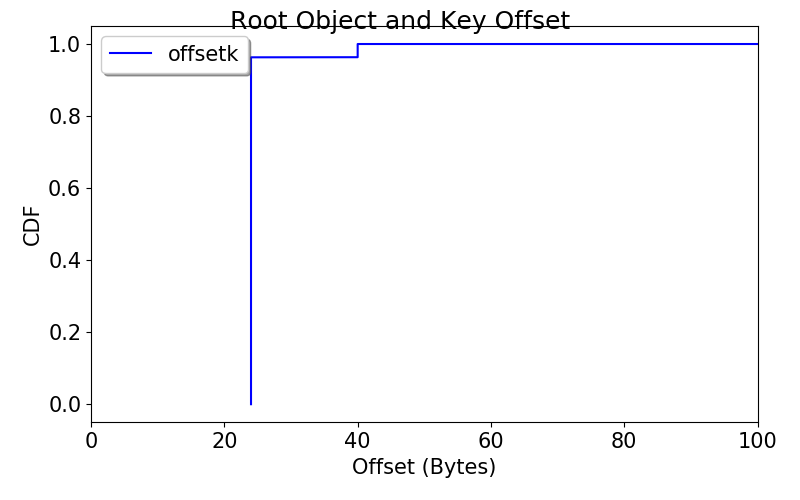
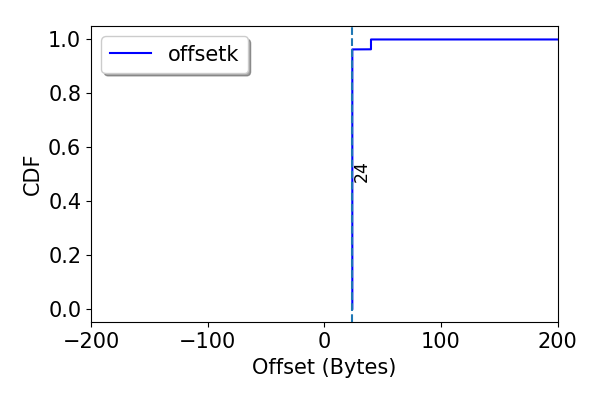
experimented with code to observe affect on inter-object distances

Changed region(s): [[0.03, 0.0, 0.99, 0.96]]

diff --git a/plot.py b/plot.py
@@ -197,14 +197,16 @@ def parse_args():
         help='Custom y-axis upper limit')
 
     parser.add_argument('-hl', '--hline', 
-        action='store', 
+        action='append', 
         type=float,
-        help='Add a horizantal line at specified y-value')
+        dest='hlines',
+        help='Add a horizantal line at specified y-value (multiple lines are allowed)')
 
     parser.add_argument('-vl', '--vline', 
-        action='store', 
+        action='append', 
         type=float,
-        help='Add a vertical line at specified x-value')
+        dest='vlines',
+        help='Add a vertical line at specified x-value (multiple lines are allowed)')
 
     parser.add_argument('-pg', '--pgroup', 
         action='append', 
@@ -375,7 +377,7 @@ def main():
     matplotlib.rc('figure', autolayout=True)
     matplotlib.rcParams['pdf.fonttype'] = 42        # required for latex embedded figures
 
-    fig, axmain = plt.subplots(1, 1, figsize=(8,5))
+    fig, axmain = plt.subplots(1, 1, figsize=(6,4))
     fig.suptitle(args.ptitle if args.ptitle else '')
     #plt.ylim(0, 1000)
 
@@ -431,23 +433,18 @@ def main():
             xc = [x * args.xmul for x in xc]
             yc = [y * ymul for y in yc]
             if args.xstr:   xc = [str(x) for x in xc]
-
-            if args.nomarker:
-                lns += ax.plot(xc, yc, label=label, color=colors[cidx])
-            else:
-                lns += ax.plot(xc, yc, label=label, color=colors[cidx], 
-                    marker=markers[midx],markerfacecolor=colors[cidx])
+            lns += ax.plot(xc, yc, label=label, color=colors[cidx], 
+                marker=None if args.nomarker else markers[midx],
+                markerfacecolor=None if args.nomarker else colors[cidx])
 
         elif args.ptype == PlotType.scatter:
             xc = xcol
             yc = df[ycol]
             xc = [x * args.xmul for x in xc]
             yc = [y * ymul for y in yc]
-
-            if args.nomarker:
-                ax.scatter(xc, yc, label=label, color=colors[cidx])
-            else:
-                ax.scatter(xc, yc, label=label, color=colors[cidx], marker=markers[midx])
+            ax.scatter(xc, yc, label=label, color=colors[cidx], 
+                marker=None if args.nomarker else markers[midx],
+                markerfacecolor=None if args.nomarker else colors[cidx])
 
         elif args.ptype == PlotType.bar:
             xc = xcol
@@ -457,8 +454,7 @@ def main():
             if args.xstr:   xc = [str(x) for x in xc]
             ax.bar(xc, yc, label=label, color=colors[cidx])
             if args.xstr:   ax.set_xticks(xc)
-            if args.xstr:   ax.set_xticklabels(xc, rotation='45')
-            
+            if args.xstr:   ax.set_xticklabels(xc, rotation='45')         
 
         elif args.ptype == PlotType.barstacked:
             xc = xcol
@@ -495,19 +491,17 @@ def main():
                         break
                 if tail:
                     args.xmax = tail if args.xmax is None else max(tail, args.xmax)
-
-            # xc = xc[head:tail]
-            # yc = yc[head:tail]
             
             xc = [x * args.xmul for x in xc]
             yc = [y * ymul for y in yc]
-            
-            if args.nomarker:
-                lns += ax.plot(xc, yc, label=label, color=colors[cidx])
-            else:
-                lns += ax.plot(xc, yc, label=label, color=colors[cidx],
-                    marker=markers[midx],markerfacecolor=colors[cidx])
+            lns += ax.plot(xc, yc, label=label, color=colors[cidx],
+                marker=None if args.nomarker else markers[midx],
+                markerfacecolor=None if args.nomarker else colors[cidx])
 
+            # Add a line at mode (TODO: make this a command line option)
+            mode = scstats.mode(xc).mode[0]
+            if not args.vlines:     args.vlines = []
+            args.vlines.append(mode)        
             ylabel = "CDF"
 
         if args.colormarkerincr:
@@ -553,13 +547,17 @@ def main():
         labels = [l.get_label() for l in lns]
         set_axes_legend_loc(axmain, lns, labels, args.lloc)
 
-    # Add horizantal and/or vertical lines
-    if args.hline:
-        plt.axhline(y=args.hline, ls='dashed')
-        # plt.text(args.hline, 0, str(args.hline))
-    if args.vline:
-        plt.axvline(x=args.vline, ls='dashed')
-        # plt.text(args.vline, 0, str(args.vline))
+    # Add any horizantal and/or vertical lines
+    if args.hlines:
+        for hline in args.hlines:
+            plt.axhline(y=hline, ls='dashed')
+            plt.text(0.5, hline, str(hline), transform=axmain.get_yaxis_transform(), 
+                color='black', fontsize='small')
+    if args.vlines:
+        for vline in args.vlines:
+            plt.axvline(x=vline, ls='dashed')
+            plt.text(vline, 0.5, str(vline), transform=axmain.get_xaxis_transform(), 
+                color='black', fontsize='small',rotation=90)
 
     # plt.savefig(args.output, format="eps")
     plt.savefig(args.output, format=str(args.outformat))

diff --git a/analyze.py b/analyze.py
@@ -61,9 +61,12 @@ def main():
                     r = Record()
                     r.mapid = int(vals[0])
                     r.idx = int(vals[1])
-                    r.addr = int(vals[2])
-                    r.addrk = int(vals[3])
-                    r.addrv = int(vals[4])
+                    r.addr = int(vals[4])      # object ordering varies across runs!
+                    r.addrk = int(vals[2])
+                    r.addrv = int(vals[3])
+                    # r.addr = int(vals[2])
+                    # r.addrk = int(vals[3])
+                    # r.addrv = int(vals[4])
                     records.append(r)
                     # print(vals)
                     # print(mapId, recordId, base, base1, base2)
